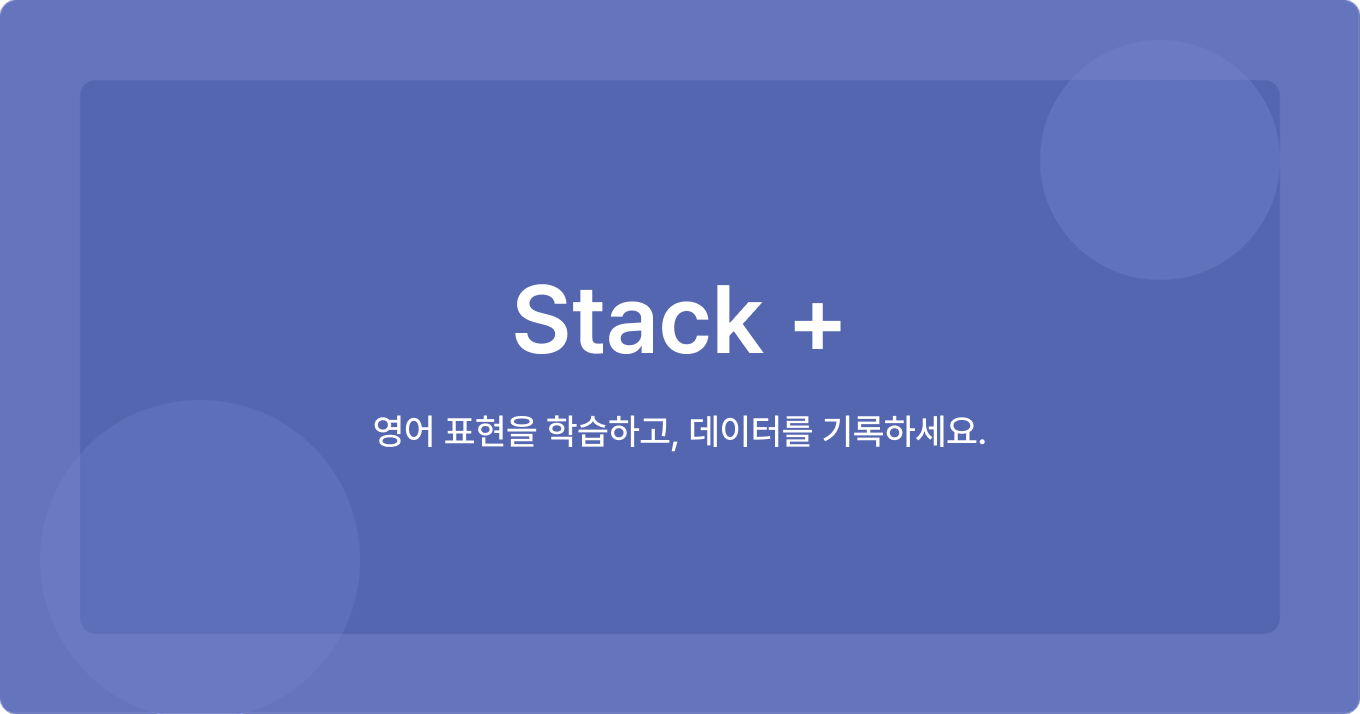
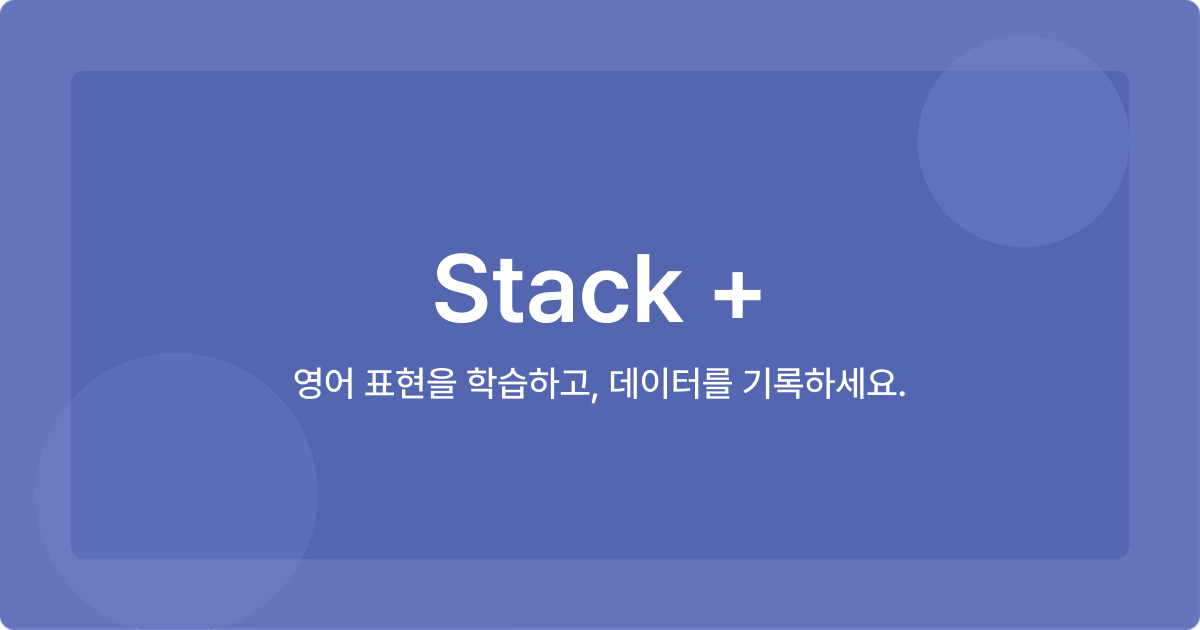
chore: og 이미지 경로 수정 및 사용하지 않는 파일 삭제

Changed region(s): [[0.2467, 0.573, 0.7708, 0.6333], [0.3392, 0.3921, 0.6475, 0.5127]]

diff --git a/src/app/layout.tsx b/src/app/layout.tsx
@@ -33,7 +33,13 @@ export const metadata: Metadata = {
     title: "Stack+",
     description:
       "Stack+는 언어를 학습하고, 데이터로 성장을 기록하는 학습 플랫폼입니다.",
-    images: ["/public/og-image.png"],
+    images: [
+      {
+        url: "https://stack-plus.vercel.app/og-image.png",
+        width: 1200,
+        height: 630,
+      },
+    ],
   },
 };
 
